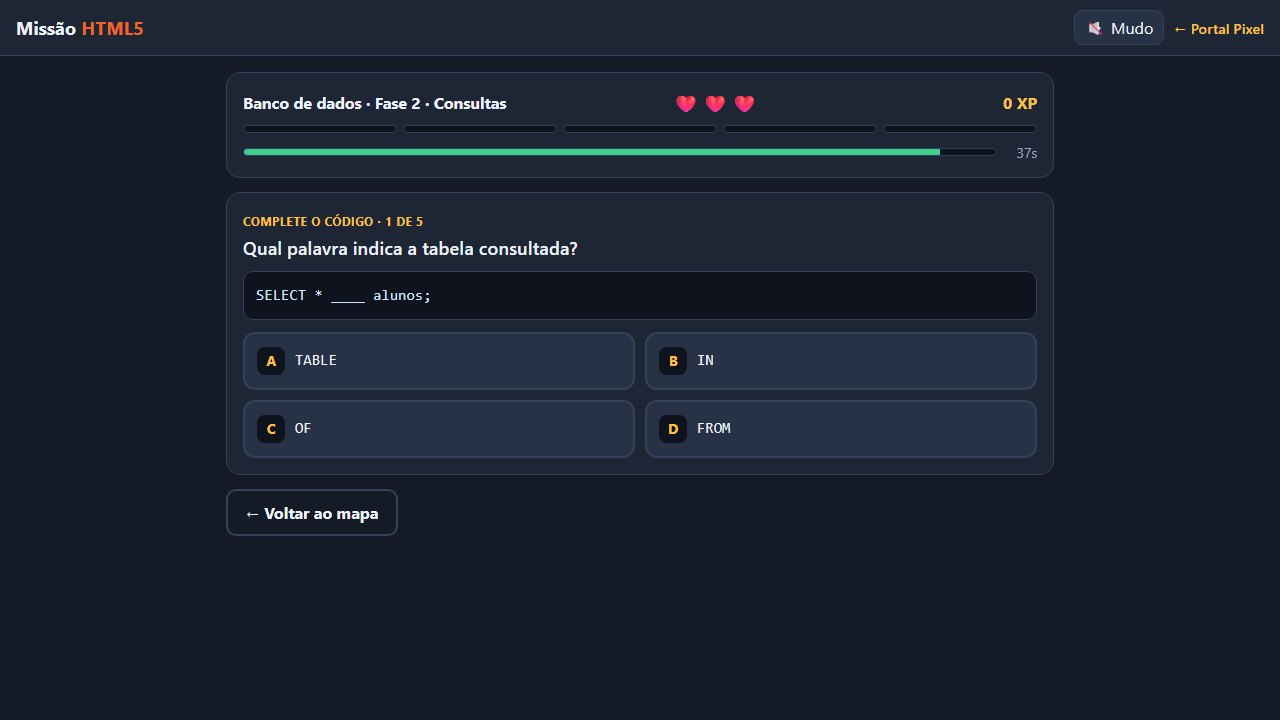
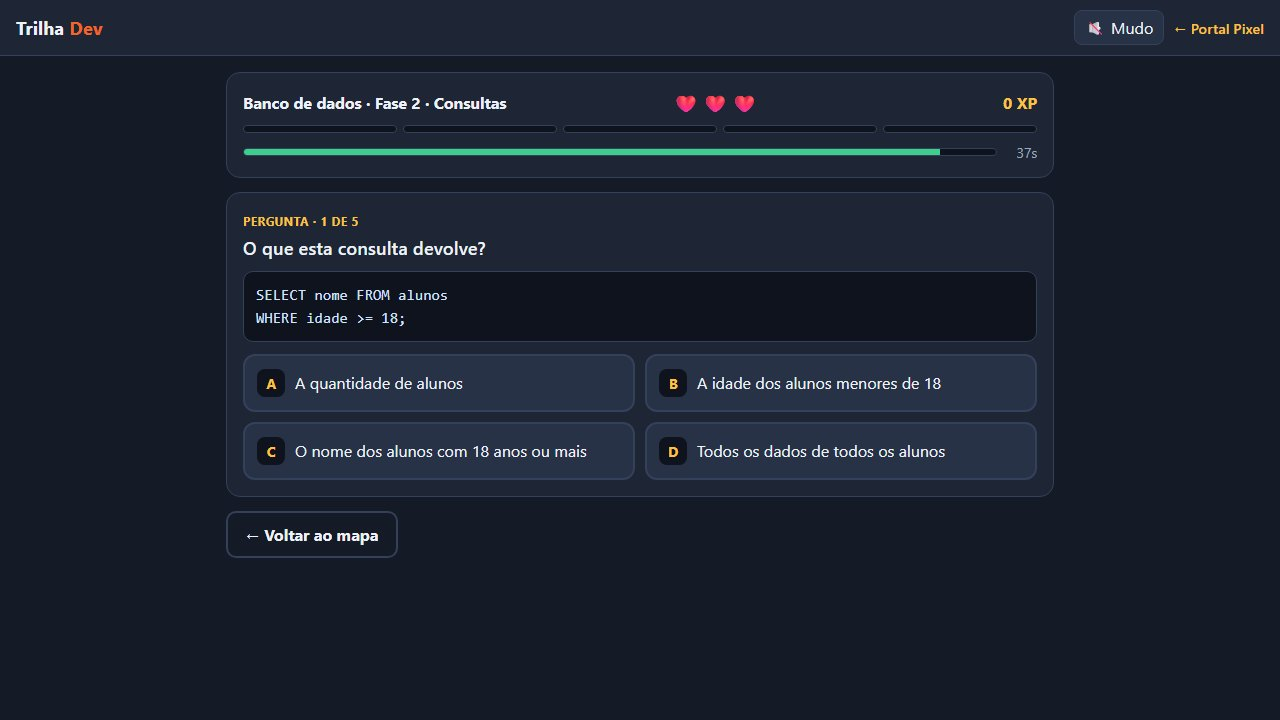
Trilha Dev 1.6.0: novo nome do jogo Missao HTML5

diff --git a/guias/missao-html5.html b/guias/missao-html5.html
@@ -3,8 +3,8 @@
 <head>
   <meta charset="utf-8">
   <meta name="viewport" content="width=device-width, initial-scale=1">
-  <title>Missão HTML5 — Documento de Design do Jogo (GDD) · Portal Pixel</title>
-  <meta name="description" content="Documento de design (GDD) de Missão HTML5: objetivos, mecânicas, conteúdo das 21 fases, telas, arquitetura, testes e histórico de versões.">
+  <title>Trilha Dev — Documento de Design do Jogo (GDD) · Portal Pixel</title>
+  <meta name="description" content="Documento de design (GDD) de Trilha Dev: objetivos, mecânicas, conteúdo das 21 fases, telas, arquitetura, testes e histórico de versões.">
   <link rel="icon" type="image/svg+xml" href="../assets/marca/icone.svg">
   <meta name="theme-color" content="#0f1020">
   <link rel="preconnect" href="https://fonts.googleapis.com">
@@ -20,15 +20,15 @@
   <main class="guia">
     <div class="guia-cabecalho">
       <span class="guia-selo">GUIA COMPLETO</span>
-      <h1>Missão HTML5 — Documento de Design do Jogo (GDD)</h1>
+      <h1>Trilha Dev — Documento de Design do Jogo (GDD)</h1>
       <a class="botao guia-jogar" href="../jogo.html?id=missao-html5">▶ Jogar agora</a>
     </div>
     <div class="guia-grade">
-      <nav class="guia-indice" aria-label="Índice do guia"><strong>Índice</strong><ol><li><a href="#visão-geral">Visão geral</a></li><li><a href="#objetivos-pedagógicos">Objetivos pedagógicos</a></li><li><a href="#público-e-uso-em-sala">Público e uso em sala</a></li><li><a href="#ciclo-de-jogo">Ciclo de jogo</a></li><li><a href="#mecânicas">Mecânicas</a></li><li><a href="#conteúdo">Conteúdo</a></li><li><a href="#telas">Telas</a></li><li><a href="#controles">Controles</a></li><li><a href="#áudio">Áudio</a></li><li><a href="#acessibilidade">Acessibilidade</a></li><li><a href="#arquitetura-técnica">Arquitetura técnica</a></li><li><a href="#integração-com-o-portal-pixel">Integração com o Portal Pixel</a></li><li><a href="#testes-realizados-na-versão-150">Testes realizados na versão 1.5.0</a></li><li><a href="#histórico-de-versões">Histórico de versões</a></li><li><a href="#limitações-e-próximos-passos">Limitações e próximos passos</a></li></ol></nav>
+      <nav class="guia-indice" aria-label="Índice do guia"><strong>Índice</strong><ol><li><a href="#visão-geral">Visão geral</a></li><li><a href="#objetivos-pedagógicos">Objetivos pedagógicos</a></li><li><a href="#público-e-uso-em-sala">Público e uso em sala</a></li><li><a href="#ciclo-de-jogo">Ciclo de jogo</a></li><li><a href="#mecânicas">Mecânicas</a></li><li><a href="#conteúdo">Conteúdo</a></li><li><a href="#telas">Telas</a></li><li><a href="#controles">Controles</a></li><li><a href="#áudio">Áudio</a></li><li><a href="#acessibilidade">Acessibilidade</a></li><li><a href="#arquitetura-técnica">Arquitetura técnica</a></li><li><a href="#integração-com-o-portal-pixel">Integração com o Portal Pixel</a></li><li><a href="#testes-realizados-na-versão-160">Testes realizados na versão 1.6.0</a></li><li><a href="#histórico-de-versões">Histórico de versões</a></li><li><a href="#limitações-e-próximos-passos">Limitações e próximos passos</a></li></ol></nav>
       <article class="guia-texto">
-<p>Versão do jogo: <strong>1.5.0</strong> · Atualizado em 10/11/2026 · Autor: Prof. Heberson Miliano</p>
-<p>Este documento descreve o jogo Missão HTML5: para quem ele é, como funciona, o que ensina, como foi construído e como evoluir. Ele acompanha o jogo publicado no Portal Pixel e deve ser atualizado a cada versão.</p>
-<p><img loading="lazy" decoding="async" alt="Capa de Missão HTML5" src="../assets/missao-html5/capa.jpg" /></p>
+<p>Versão do jogo: <strong>1.6.0</strong> · Atualizado em 10/11/2026 · Autor: Prof. Heberson Miliano</p>
+<p>Este documento descreve o jogo Trilha Dev, que até a versão 1.5 se chamava Missão HTML5: para quem ele é, como funciona, o que ensina, como foi construído e como evoluir. Ele acompanha o jogo publicado no Portal Pixel e deve ser atualizado a cada versão.</p>
+<p><img loading="lazy" decoding="async" alt="Capa de Trilha Dev" src="../assets/missao-html5/capa.jpg" /></p>
 <h2 id="visão-geral">Visão geral</h2>
 <table>
 <thead>
@@ -40,7 +40,7 @@
 <tbody>
 <tr>
 <td>Título</td>
-<td>Missão HTML5</td>
+<td>Trilha Dev (antes Missão HTML5)</td>
 </tr>
 <tr>
 <td>Gênero</td>
@@ -68,7 +68,7 @@
 </tr>
 <tr>
 <td>Endereço</td>
-<td><code>jogo.html?id=missao-html5</code> no Portal Pixel</td>
+<td><code>jogo.html?id=missao-html5</code> no Portal Pixel (o endereço mantém o nome antigo)</td>
 </tr>
 <tr>
 <td>Código</td>
@@ -546,7 +546,7 @@
 </tbody>
 </table>
 <p>Para publicar uma versão nova: altere o jogo, aumente <code>VERSAO</code> no jogo e <code>versao</code> no catálogo, acrescente a versão no início de <code>novidades</code>, atualize este documento e gere a página do guia de novo.</p>
-<h2 id="testes-realizados-na-versão-150">Testes realizados na versão 1.5.0</h2>
+<h2 id="testes-realizados-na-versão-160">Testes realizados na versão 1.6.0</h2>
 <ul>
 <li>Conferência automática das 210 questões: 10 por fase, 4 alternativas diferentes, 1 certa e explicação preenchida.</li>
 <li>Quatro partidas automáticas completas em cada uma das 21 fases, que passaram por 199 das 210 questões.</li>
@@ -569,6 +569,11 @@
 </tr>
 </thead>
 <tbody>
+<tr>
+<td>1.6</td>
+<td>10/11/2026</td>
+<td>Novo nome: Trilha Dev. Endereço, pastas e progresso salvo continuam os mesmos</td>
+</tr>
 <tr>
 <td>1.5</td>
 <td>10/11/2026</td>

diff --git a/jogos.js b/jogos.js
@@ -89,14 +89,14 @@ window.JOGOS = [
   },
   {
     id: "missao-html5",
-    titulo: "Missão HTML5",
+    titulo: "Trilha Dev",
     chamada: "Seis trilhas, de HTML5 a Git: 21 fases, 210 questões sorteadas, cronômetro, ranking da turma e certificado.",
     genero: ["Educativo", "Puzzle"],
-    tags: ["HTML5", "CSS", "JavaScript", "lógica de programação", "banco de dados", "SQL", "Git", "web", "quiz", "desenvolvimento de sistemas", "ranking", "certificado", "educacional", "ensino técnico"],
-    descricao: "Um jogo de perguntas para alunos de Desenvolvimento de Sistemas revisarem o conteúdo do curso. São seis trilhas e 21 fases: HTML5 (estrutura da página, texto e listas, links e mídia, tags semânticas, formulários e desafio final), CSS (seletores, modelo de caixa e layout responsivo), JavaScript (variáveis, decisão e repetição, funções, listas e página), lógica de programação (algoritmos e variáveis, decisão, repetição e vetores), banco de dados (conceitos, consultas e comandos de alteração em SQL) e Git (primeiros passos, repositório remoto, ramos e trabalho em equipe). Cada fase sorteia 5 questões de um banco de 10, então cada partida é diferente. Há perguntas diretas, de completar o código, de achar o erro e de prever o resultado, e toda resposta traz uma explicação. Você tem 3 vidas por fase e 40 segundos por questão; a questão errada volta para o fim da fila, então só passa quem acerta todas. Acertos seguidos e respostas rápidas rendem bônus de XP, o XP sobe a patente de Estagiário até Arquiteto Web e o ranking mostra os alunos que jogaram no mesmo computador. Quem conclui uma trilha recebe um certificado com o aproveitamento, que pode ser impresso ou salvo em PDF. O cronômetro pode ser desligado. O progresso fica salvo no navegador.",
+    tags: ["Missão HTML5", "HTML5", "CSS", "JavaScript", "lógica de programação", "banco de dados", "SQL", "Git", "web", "quiz", "desenvolvimento de sistemas", "ranking", "certificado", "educacional", "ensino técnico"],
+    descricao: "Um jogo de perguntas para alunos de Desenvolvimento de Sistemas revisarem o conteúdo do curso. Antes se chamava Missão HTML5. São seis trilhas e 21 fases: HTML5 (estrutura da página, texto e listas, links e mídia, tags semânticas, formulários e desafio final), CSS (seletores, modelo de caixa e layout responsivo), JavaScript (variáveis, decisão e repetição, funções, listas e página), lógica de programação (algoritmos e variáveis, decisão, repetição e vetores), banco de dados (conceitos, consultas e comandos de alteração em SQL) e Git (primeiros passos, repositório remoto, ramos e trabalho em equipe). Cada fase sorteia 5 questões de um banco de 10, então cada partida é diferente. Há perguntas diretas, de completar o código, de achar o erro e de prever o resultado, e toda resposta traz uma explicação. Você tem 3 vidas por fase e 40 segundos por questão; a questão errada volta para o fim da fila, então só passa quem acerta todas. Acertos seguidos e respostas rápidas rendem bônus de XP, o XP sobe a patente de Estagiário até Arquiteto Web e o ranking mostra os alunos que jogaram no mesmo computador. Quem conclui uma trilha recebe um certificado com o aproveitamento, que pode ser impresso ou salvo em PDF. O cronômetro pode ser desligado. O progresso fica salvo no navegador.",
     controles: "Mouse ou toque: clique na resposta. Teclado: A, B, C, D ou 1, 2, 3, 4 para responder e Enter para continuar. Funciona no computador e no celular.",
     url: "jogos/missao-html5/index.html",
-    versao: "1.5.0",
+    versao: "1.6.0",
     capa: "assets/missao-html5/capa.jpg",
     cor: "#f16529",
     icone: "🚀",
@@ -107,6 +107,7 @@ window.JOGOS = [
     guia: "guias/missao-html5.html",
     vitrineMissao: true,
     novidades: [
+      { versao: "1.6", data: "2026-11-10", titulo: "Novo nome: Trilha Dev", itens: ["O jogo Missão HTML5 passa a se chamar Trilha Dev, porque agora cobre seis trilhas do curso", "Capa, certificado e documentação com o nome novo", "O endereço e o progresso salvo continuam os mesmos"] },
       { versao: "1.5", data: "2026-11-10", titulo: "Lógica, banco de dados e Git", itens: ["Três trilhas novas, com 3 fases cada e 90 questões", "Bancos de CSS e JavaScript ampliados para 10 questões por fase", "Agora são 6 trilhas, 21 fases e 210 questões", "Patentes recalculadas: os níveis pedem mais XP"] },
       { versao: "1.4", data: "2026-11-10", titulo: "Trilhas de CSS e JavaScript", itens: ["Duas trilhas novas, com 3 fases cada e 48 questões", "Abas para escolher a trilha e um certificado para cada uma", "Patentes recalculadas para as 12 fases"] },
       { versao: "1.3", data: "2026-11-10", titulo: "Ranking da turma", itens: ["Tabela com os 10 melhores alunos que jogaram no computador", "Botão Trocar de aluno, que mantém a pontuação no ranking"] },

diff --git a/j/missao-html5/index.html b/j/missao-html5/index.html
@@ -3,28 +3,28 @@
 <head>
   <meta charset="utf-8">
   <meta name="viewport" content="width=device-width, initial-scale=1">
-  <title>Missão HTML5 — Portal Pixel</title>
+  <title>Trilha Dev — Portal Pixel</title>
   <meta name="description" content="Seis trilhas, de HTML5 a Git: 21 fases, 210 questões sorteadas, cronômetro, ranking da turma e certificado. Jogue grátis no navegador.">
   <link rel="canonical" href="https://hebersonmiliano.github.io/portal-jogos/jogo.html?id=missao-html5">
   <link rel="icon" type="image/svg+xml" href="../../assets/marca/icone.svg">
   <meta property="og:type" content="website">
   <meta property="og:locale" content="pt_BR">
   <meta property="og:site_name" content="Portal Pixel">
-  <meta property="og:title" content="Missão HTML5 — Portal Pixel">
+  <meta property="og:title" content="Trilha Dev — Portal Pixel">
   <meta property="og:description" content="Seis trilhas, de HTML5 a Git: 21 fases, 210 questões sorteadas, cronômetro, ranking da turma e certificado. Jogue grátis no navegador.">
   <meta property="og:url" content="https://hebersonmiliano.github.io/portal-jogos/j/missao-html5/">
-  <meta property="og:image" content="https://hebersonmiliano.github.io/portal-jogos/previas/missao-html5.jpg?v=ec7b49a5">
+  <meta property="og:image" content="https://hebersonmiliano.github.io/portal-jogos/previas/missao-html5.jpg?v=08f2e00b">
   <meta property="og:image:width" content="1200">
   <meta property="og:image:height" content="630">
-  <meta property="og:image:alt" content="Missão HTML5: imagem do jogo">
+  <meta property="og:image:alt" content="Trilha Dev: imagem do jogo">
   <meta name="twitter:card" content="summary_large_image">
-  <meta name="twitter:title" content="Missão HTML5 — Portal Pixel">
+  <meta name="twitter:title" content="Trilha Dev — Portal Pixel">
   <meta name="twitter:description" content="Seis trilhas, de HTML5 a Git: 21 fases, 210 questões sorteadas, cronômetro, ranking da turma e certificado. Jogue grátis no navegador.">
-  <meta name="twitter:image" content="https://hebersonmiliano.github.io/portal-jogos/previas/missao-html5.jpg?v=ec7b49a5">
+  <meta name="twitter:image" content="https://hebersonmiliano.github.io/portal-jogos/previas/missao-html5.jpg?v=08f2e00b">
   <meta http-equiv="refresh" content="0; url=../../jogo.html?id=missao-html5">
   <script>location.replace("../../jogo.html?id=missao-html5" + location.hash);</script>
 </head>
 <body style="background:#0f1020;color:#ecebff;font:16px system-ui,sans-serif;padding:24px">
-  <p>Abrindo <a style="color:#ffcc33" href="../../jogo.html?id=missao-html5">Missão HTML5</a>…</p>
+  <p>Abrindo <a style="color:#ffcc33" href="../../jogo.html?id=missao-html5">Trilha Dev</a>…</p>
 </body>
 </html>

diff --git a/jogos/missao-html5/index.html b/jogos/missao-html5/index.html
@@ -3,7 +3,7 @@
 <head>
 <meta charset="utf-8">
 <meta name="viewport" content="width=device-width, initial-scale=1">
-<title>Missão HTML5 — Portal Pixel</title>
+<title>Trilha Dev — Portal Pixel</title>
 <meta name="description" content="Jogo de perguntas sobre HTML5, CSS, JavaScript, lógica de programação, banco de dados e Git para alunos de Desenvolvimento de Sistemas: 21 fases, 210 questões sorteadas, cronômetro, ranking e certificado.">
 <style>
   :root { --bg:#141a26; --painel:#1e2636; --painel-2:#273247; --ink:#eef2f8; --muted:#9aa7bd; --acc:#f16529; --acc-2:#ffc145; --ok:#3ecf8e; --erro:#ff6b6b; --borda:#34415a; --codigo:#0e131d; }
@@ -141,7 +141,7 @@
 </head>
 <body>
 <header>
-  <h1>Missão <span>HTML5</span></h1>
+  <h1>Trilha <span>Dev</span></h1>
   <div class="lado">
     <button class="mini" id="btnSom" type="button" aria-pressed="true">🔊 Som</button>
     <a href="../../index.html">← Portal Pixel</a>
@@ -770,7 +770,7 @@
     { xp: 11000, nome: "Dev Sênior", avatar: "🚀" },
     { xp: 16000, nome: "Arquiteto Web", avatar: "👑" }
   ];
-  var VERSAO = "1.5.0";
+  var VERSAO = "1.6.0";
   var POR_FASE = 5, VIDAS = 3, TEMPO = 40, XP_ACERTO = 100, XP_COMBO = 20, XP_VIDA = 50, XP_TEMPO = 50;
   var CHAVE = "portalpixel.missao-html5.v1", CHAVE_RANK = "portalpixel.missao-html5.ranking";
 
@@ -1055,7 +1055,7 @@
       primeira += s.primeira; est += s.estrelas; total += POR_FASE;
       linha([(i + 1) + ". " + f.titulo, s.primeira + " de " + POR_FASE, estrelas(s.estrelas)], "td");
     });
-    $("certCabecalho").textContent = "PORTAL PIXEL · MISSÃO HTML5 · TRILHA " + tr.nome.toUpperCase();
+    $("certCabecalho").textContent = "PORTAL PIXEL · TRILHA DEV · " + tr.nome.toUpperCase();
     $("certNome").textContent = save.nome || "Aluno";
     $("certTexto").textContent = "concluiu as " + tr.fases.length + " fases da trilha " + tr.nome + ", com " + total + " questões respondidas, e alcançou a patente " + patenteDe(xp).nome + ".";
     var qd = $("certQuadro"); qd.textContent = "";
@@ -1115,7 +1115,7 @@
     if (idx >= 0 && k.length === 1 && !jogo.respondida) { var b = $("qOpcoes").children[idx]; if (b) responder(b); }
   });
 
-  $("versao").textContent = "Missão HTML5 · versão " + VERSAO;
+  $("versao").textContent = "Trilha Dev · versão " + VERSAO;
   atualizarSom();
   desenharMapa();
 })();

diff --git a/assets/missao-html5.js b/assets/missao-html5.js
@@ -1,9 +1,9 @@
-// Apresentação de Missão HTML5: capturas reais do jogo, trilhas, números e histórico de atualizações.
+// Apresentação de Trilha Dev (id missao-html5, o nome antigo do jogo): capturas reais do jogo, trilhas, números e histórico de atualizações.
 // Usada na página do jogo (com o botão que inicia a partida) e na vitrine da página inicial.
 function criarVitrineMissao(jogo, iniciar) {
   const base = "assets/missao-html5/";
   const card = el("section", "mis-vitrine");
-  card.setAttribute("aria-label", "Conheça Missão HTML5");
+  card.setAttribute("aria-label", "Conheça Trilha Dev");
 
   // Chamada principal
   const hero = el("div", "mis-hero");
@@ -16,14 +16,14 @@ function criarVitrineMissao(jogo, iniciar) {
   const fatos = el("div", "mis-fatos");
   ["6 trilhas", "21 fases", "210 questões", "Certificado por trilha"].forEach((t) => fatos.append(el("span", null, t)));
   const acoes = el("div", "mis-acoes");
-  const jogar = el(iniciar ? "button" : "a", "botao mis-jogar", "▶ Começar a missão");
+  const jogar = el(iniciar ? "button" : "a", "botao mis-jogar", "▶ Começar a trilha");
   if (iniciar) { jogar.type = "button"; jogar.onclick = iniciar; }
   else jogar.href = "jogo.html?id=" + encodeURIComponent(jogo.id);
   acoes.append(jogar);
   if (jogo.guia) { const gdd = el("a", "botao botao-sec", "📖 Documentação (GDD)"); gdd.href = jogo.guia; acoes.append(gdd); }
   texto.append(fatos, acoes, el("p", "mis-nota", "Computador e celular · Versão " + (jogo.versao || "") + " · Progresso salvo no navegador"));
   const capa = el("img", "mis-capa");
-  capa.src = base + "capa.jpg"; capa.alt = "Capa de Missão HTML5 com uma questão do jogo ao fundo"; capa.loading = "lazy";
+  capa.src = base + "capa.jpg"; capa.alt = "Capa de Trilha Dev com uma questão do jogo ao fundo"; capa.loading = "lazy";
   hero.append(texto, capa);
   card.append(hero);
 

diff --git a/jogo.html b/jogo.html
@@ -27,7 +27,7 @@
   <link rel="stylesheet" href="assets/setor404.css?v=20261023-card">
 <link rel="stylesheet" href="assets/faisca.css?v=20261023-fortaleza"><link rel="stylesheet" href="assets/lenda-da-brasa.css?v=20261025-vitrine"><link rel="stylesheet" href="assets/doacao.css?v=20261025"><link rel="stylesheet" href="assets/portal.css?v=20261025c"><link rel="stylesheet" href="assets/imperio-industrial.css?v=20261023-final"><link rel="stylesheet" href="assets/imperio-industrial-2.css?v=20261027b">
   <link rel="stylesheet" href="assets/cafe-com-patas.css?v=1.3">
-  <link rel="stylesheet" href="assets/missao-html5.css?v=1.5.0">
+  <link rel="stylesheet" href="assets/missao-html5.css?v=1.6.0">
   <link rel="stylesheet" href="assets/faisca2.css?v=20261102-050">
 </head>
 <body>
@@ -99,7 +99,7 @@
     <p class="rodape-credito">© <span data-ano></span> <span data-site-autor></span> · Jogos feitos com carinho, grátis no navegador. Contamos as visitas de forma anônima, sem cookies.</p>
   </footer>
 
-  <script src="jogos.js?v=20261110-missao150"></script>
+  <script src="jogos.js?v=20261110-trilhadev160"></script>
   <script src="assets/estatisticas.js?v=20261025"></script>
   <script src="assets/vendor/qrcode.js?v=1.4.4"></script>
   <script src="assets/doacao.js?v=20261025"></script>
@@ -109,9 +109,9 @@
   <script src="assets/imperio-industrial.js?v=20261023-final"></script>
   <script src="assets/imperio-industrial-2.js?v=20261027c"></script>
   <script src="assets/cafe-com-patas.js?v=1.3"></script>
-  <script src="assets/missao-html5.js?v=1.5.0"></script>
+  <script src="assets/missao-html5.js?v=1.6.0"></script>
   <script src="assets/faisca2.js?v=20261102-050"></script>
-  <script src="assets/comum.js?v=20261110-missao150"></script>
+  <script src="assets/comum.js?v=20261110-trilhadev160"></script>
   <script src="assets/pagina-jogo.js?v=20261110-missao"></script>
 
 </body>

diff --git a/index.html b/index.html
@@ -29,7 +29,7 @@
   <link rel="stylesheet" href="assets/setor404.css?v=20261023-card">
 <link rel="stylesheet" href="assets/faisca.css?v=20261023-fortaleza"><link rel="stylesheet" href="assets/lenda-da-brasa.css?v=20261025-vitrine"><link rel="stylesheet" href="assets/doacao.css?v=20261025"><link rel="stylesheet" href="assets/portal.css?v=20261025c"><link rel="stylesheet" href="assets/imperio-industrial.css?v=20261023-final"><link rel="stylesheet" href="assets/imperio-industrial-2.css?v=20261027b">
   <link rel="stylesheet" href="assets/cafe-com-patas.css?v=1.3">
-  <link rel="stylesheet" href="assets/missao-html5.css?v=1.5.0">
+  <link rel="stylesheet" href="assets/missao-html5.css?v=1.6.0">
   <link rel="stylesheet" href="assets/faisca2.css?v=20261102-050">
 </head>
 <body>
@@ -89,7 +89,7 @@
     <p class="rodape-credito">© <span data-ano></span> <span data-site-autor></span> · Jogos feitos com carinho, grátis no navegador. Contamos as visitas de forma anônima, sem cookies.</p>
   </footer>
 
-  <script src="jogos.js?v=20261110-missao150"></script>
+  <script src="jogos.js?v=20261110-trilhadev160"></script>
   <script src="assets/estatisticas.js?v=20261025"></script>
   <script src="assets/vendor/qrcode.js?v=1.4.4"></script>
   <script src="assets/doacao.js?v=20261025"></script>
@@ -99,9 +99,9 @@
   <script src="assets/imperio-industrial.js?v=20261023-final"></script>
   <script src="assets/imperio-industrial-2.js?v=20261027c"></script>
   <script src="assets/cafe-com-patas.js?v=1.3"></script>
-  <script src="assets/missao-html5.js?v=1.5.0"></script>
+  <script src="assets/missao-html5.js?v=1.6.0"></script>
   <script src="assets/faisca2.js?v=20261102-050"></script>
-  <script src="assets/comum.js?v=20261110-missao150"></script>
+  <script src="assets/comum.js?v=20261110-trilhadev160"></script>
   <script src="assets/vitrine.js?v=20261110-missao"></script>
 
 </body>

diff --git a/assets/missao-html5.css b/assets/missao-html5.css
@@ -1,4 +1,4 @@
-/* Apresentação de Missão HTML5 (página do jogo e vitrine da página inicial) */
+/* Apresentação de Trilha Dev (página do jogo e vitrine da página inicial) */
 .mis-vitrine { background:#141a26; color:#eef2f8; border:1px solid #34415a; border-radius:18px; overflow:hidden; margin:22px 0; }
 .mis-hero { display:grid; grid-template-columns:.9fr 1.1fr; align-items:center; gap:28px; padding:34px; background:radial-gradient(700px 400px at 90% 10%, rgba(241,101,41,.18), transparent 60%); }
 .mis-selo { font-size:11px; font-weight:800; letter-spacing:.14em; color:#ffc145; }

diff --git a/assets/comum.js b/assets/comum.js
@@ -134,7 +134,7 @@ function criarCartao(jogo) {
     info.append(fatos, el("span", "cartao-convite", "Investigar o caso →"));
   }
   if (jogo.vitrineMissao) {
-    info.append(el("p", "mis-mini-resumo", "Seis trilhas e 21 fases, de HTML5 a Git, com ranking e certificado."), el("span", "mis-mini-convite", "Começar a missão →"));
+    info.append(el("p", "mis-mini-resumo", "Seis trilhas e 21 fases, de HTML5 a Git, com ranking e certificado."), el("span", "mis-mini-convite", "Começar a trilha →"));
   }
   if (jogo.vitrineImperio2) {
     a.classList.add("cartao-imp2");

diff --git a/guias/missao-html5.md b/guias/missao-html5.md
@@ -1,23 +1,23 @@
-# Missão HTML5 — Documento de Design do Jogo (GDD)
+# Trilha Dev — Documento de Design do Jogo (GDD)
 
-Versão do jogo: **1.5.0** · Atualizado em 10/11/2026 · Autor: Prof. Heberson Miliano
+Versão do jogo: **1.6.0** · Atualizado em 10/11/2026 · Autor: Prof. Heberson Miliano
 
-Este documento descreve o jogo Missão HTML5: para quem ele é, como funciona, o que ensina, como foi construído e como evoluir. Ele acompanha o jogo publicado no Portal Pixel e deve ser atualizado a cada versão.
+Este documento descreve o jogo Trilha Dev, que até a versão 1.5 se chamava Missão HTML5: para quem ele é, como funciona, o que ensina, como foi construído e como evoluir. Ele acompanha o jogo publicado no Portal Pixel e deve ser atualizado a cada versão.
 
-![Capa de Missão HTML5](../assets/missao-html5/capa.jpg)
+![Capa de Trilha Dev](../assets/missao-html5/capa.jpg)
 
 ## Visão geral
 
 | Item | Descrição |
 |---|---|
-| Título | Missão HTML5 |
+| Título | Trilha Dev (antes Missão HTML5) |
 | Gênero | Educativo, jogo de perguntas (quiz) com progressão por fases |
 | Plataforma | Navegador, no computador e no celular |
 | Público | Alunos do curso técnico em Desenvolvimento de Sistemas |
 | Jogadores | 1 por vez; vários alunos podem se revezar no mesmo computador |
 | Duração | Cerca de 3 a 5 minutos por fase |
 | Tecnologia | HTML5, CSS e JavaScript puros, em um único arquivo, sem bibliotecas |
-| Endereço | `jogo.html?id=missao-html5` no Portal Pixel |
+| Endereço | `jogo.html?id=missao-html5` no Portal Pixel (o endereço mantém o nome antigo) |
 | Código | `jogos/missao-html5/index.html` no repositório `portal-jogos` |
 
 **Resumo em uma frase:** o aluno avança por 21 fases, em seis trilhas que vão de HTML5 a Git, respondendo questões sorteadas, com vidas, cronômetro, XP, patentes, ranking e certificado.
@@ -256,7 +256,7 @@ O progresso da versão 1.0, que só tinha HTML5, é convertido ao abrir o jogo.
 
 Para publicar uma versão nova: altere o jogo, aumente `VERSAO` no jogo e `versao` no catálogo, acrescente a versão no início de `novidades`, atualize este documento e gere a página do guia de novo.
 
-## Testes realizados na versão 1.5.0
+## Testes realizados na versão 1.6.0
 
 - Conferência automática das 210 questões: 10 por fase, 4 alternativas diferentes, 1 certa e explicação preenchida.
 - Quatro partidas automáticas completas em cada uma das 21 fases, que passaram por 199 das 210 questões.
@@ -274,6 +274,7 @@ Ainda não testado: uso em um celular físico e impressão do certificado em pap
 
 | Versão | Data | Mudanças |
 |---|---|---|
+| 1.6 | 10/11/2026 | Novo nome: Trilha Dev. Endereço, pastas e progresso salvo continuam os mesmos |
 | 1.5 | 10/11/2026 | Trilhas de Lógica, Banco de dados e Git; bancos de CSS e JavaScript com 10 questões; patentes recalculadas |
 | 1.4 | 10/11/2026 | Trilhas de CSS e JavaScript, abas, um certificado por trilha, patentes recalculadas |
 | 1.3 | 10/11/2026 | Ranking da turma e botão Trocar de aluno |

diff --git a/README.md b/README.md
@@ -60,16 +60,16 @@ o site precisa dos cabeçalhos do arquivo `_headers`.
 
 ## Publicar
 
-### Missão HTML5
+### Trilha Dev (antes Missão HTML5)
 
-Disponível em `jogo.html?id=missao-html5`, em `jogos/missao-html5/` (um único `index.html`, sem bibliotecas). Versão 1.5.0: jogo de perguntas para o curso de Desenvolvimento de Sistemas, com seis trilhas (HTML5, CSS, JavaScript, lógica de programação, banco de dados e Git), 21 fases e 210 questões. Cada fase sorteia 5 questões; há vidas, cronômetro de 40 segundos que pode ser desligado, XP, patentes, ranking salvo no navegador e um certificado por trilha.
+Disponível em `jogo.html?id=missao-html5`, em `jogos/missao-html5/` (um único `index.html`, sem bibliotecas). Versão 1.6.0. O id, as pastas e os arquivos continuam como `missao-html5`, para não quebrar os links já compartilhados nem o progresso salvo dos alunos. Jogo de perguntas para o curso de Desenvolvimento de Sistemas, com seis trilhas (HTML5, CSS, JavaScript, lógica de programação, banco de dados e Git), 21 fases e 210 questões. Cada fase sorteia 5 questões; há vidas, cronômetro de 40 segundos que pode ser desligado, XP, patentes, ranking salvo no navegador e um certificado por trilha.
 
 A apresentação usa o campo `vitrineMissao` no catálogo, `assets/missao-html5.js` e `.css`, e a capa e as capturas reais em `assets/missao-html5/`. Aparece na página do jogo e na vitrine da página inicial, e lista as atualizações a partir do campo `novidades`.
 
 A documentação do jogo (GDD) fica em `guias/missao-html5.md` e vira a página `guias/missao-html5.html` (campo `guia` no catálogo):
 
 ```bash
-python3 ferramentas/guias/gerar.py guias/missao-html5.md missao-html5 "Documento de design (GDD) de Missão HTML5: objetivos, mecânicas, conteúdo das 21 fases, telas, arquitetura, testes e histórico de versões."
+python3 ferramentas/guias/gerar.py guias/missao-html5.md missao-html5 "Documento de design (GDD) de Trilha Dev: objetivos, mecânicas, conteúdo das 21 fases, telas, arquitetura, testes e histórico de versões."
 ```
 
 Para publicar uma versão nova: altere o jogo, aumente `VERSAO` no jogo e `versao` no catálogo, acrescente a versão no início de `novidades`, atualize o GDD, gere o guia de novo e troque a chave de cache de `jogos.js` nas duas páginas. O link de compartilhamento fica em `j/missao-html5/`.
